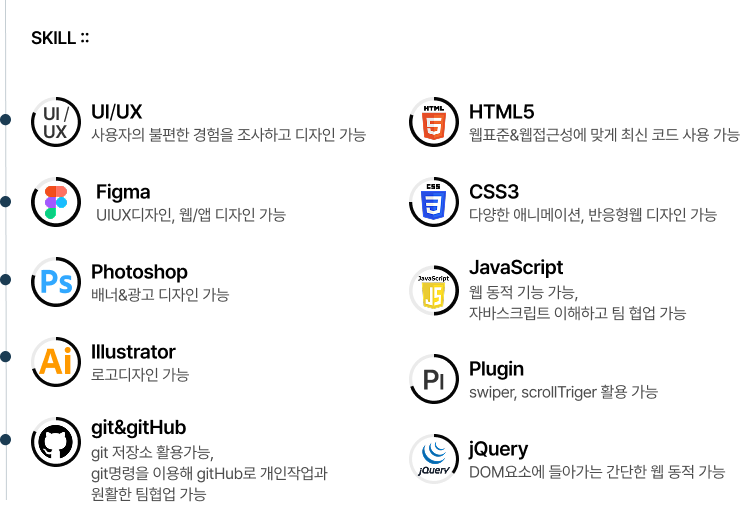
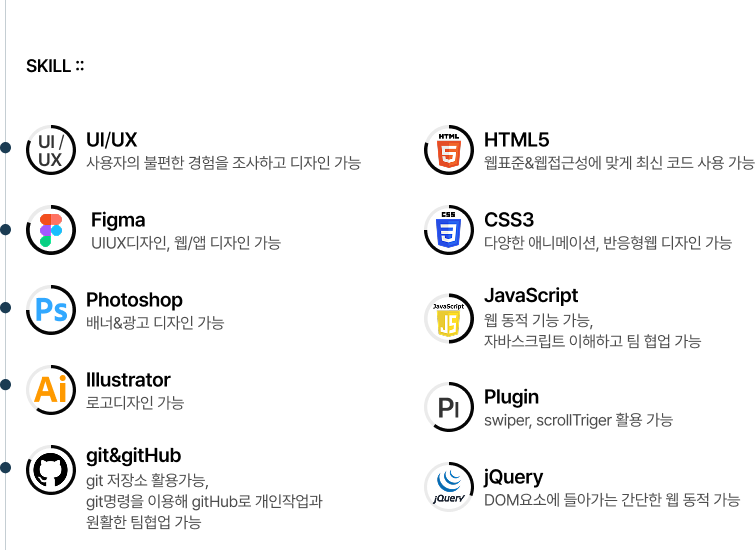
수정

diff --git a/styles/index.css b/styles/index.css
@@ -177,30 +177,30 @@ header a:last-child {margin-right: 0;}
     /* background: url(../images/ji_yun.png) no-repeat center 40% / contain; */
 }
 #wrap .swiper-wrapper .profile .top {
-    width:914px;
-    margin:200px 0 0 110px;
-    display: flex; gap:100px; align-items: center;
+    width:max-content;
+    margin:200px 0 0 200px;
+    display: flex; gap:120px; align-items: end;
 }
-#wrap .swiper-wrapper .profile .top .profile_photo {
-    display: flex; gap:50px; align-items: center;
-}
+#wrap .swiper-wrapper .profile .top .profile_photo {}
 #wrap .swiper-wrapper .profile .top .profile_photo .me_photo {}
 #wrap .swiper-wrapper .profile .top .profile_photo .me_photo img {}
-#wrap .swiper-wrapper .profile .top .profile_photo p {
+
+#wrap .swiper-wrapper .profile .top .profile_wrap {}
+#wrap .swiper-wrapper .profile .top .profile_wrap > p {
     display: flex; flex-flow: column nowrap;
     gap:30px; 
+    margin-bottom:50px;
 }
-#wrap .swiper-wrapper .profile .top .profile_photo p span {}
-#wrap .swiper-wrapper .profile .top .profile_photo p span:last-child {
+#wrap .swiper-wrapper .profile .top .profile_wrap p span {}
+#wrap .swiper-wrapper .profile .top .profile_wrap p span:last-child {
     font-size: 1.75rem; font-weight: 300;
 }
-#wrap .swiper-wrapper .profile .top .profile_photo p span em {
+#wrap .swiper-wrapper .profile .top .profile_wrap p span em {
     font-size: 3rem; font-weight: 600;
     margin-right:10px;
     letter-spacing: 0.1em;
 }
 
-#wrap .swiper-wrapper .profile .top .profile_wrap {}
 #wrap .swiper-wrapper .profile .top .profile_wrap .profile_cont {
     display:flex; flex-flow: column nowrap;  gap:20px;
 }
@@ -214,14 +214,14 @@ header a:last-child {margin-right: 0;}
 }
 #wrap .swiper-wrapper .profile .top .profile_wrap .profile_cont li span {}
 
-#wrap .swiper-wrapper .profile > p {
+#wrap .swiper-wrapper .profile .education {
     width:1700px;
-    margin:210px 0 0 110px;
+    margin:160px 0 0 100px;
 }
-#wrap .swiper-wrapper .profile > p img {width:100%}
+#wrap .swiper-wrapper .profile .education img {width:100%}
 #wrap .swiper-wrapper .profile .skill {
     width:653px;
-    position:absolute; right:50PX; top:-155PX;
+    position:absolute; right:80px; top:54px;
 }
 #wrap .swiper-wrapper .profile .skill img {width:100%}
 

diff --git a/index.html b/index.html
@@ -68,13 +68,13 @@
                 <div class="top">
                     <div class="profile_photo">
                         <p class="me_photo"><img src="./images/me_photo.png" alt=""></p>
+                    </div>
+                    <div class="profile_wrap">
                         <p>
                             <span>감성을 설계하고, 경험을 디자인하는 디자이너</span>
                             <span><em>김지윤</em>입니다</span>
                             <span>::KIMJIYUN</span>
                         </p>
-                    </div>
-                    <div class="profile_wrap">
                         <ul class="profile_cont">
                             <li><em>BIRTH</em><span>1996.02.27</span></li>
                             <li><em>PHONE</em><span>010.7472.1344</span></li>
@@ -83,7 +83,7 @@
                         </ul>
                     </div>
                 </div>
-                <p><img src="./images/education.png" alt=""></p>
+                <p class="education"><img src="./images/education.png" alt=""></p>
                 <p class="skill"><img src="./images/skill.png" alt=""></p>
             </div>
             <div class="swiper-slide web_design">
